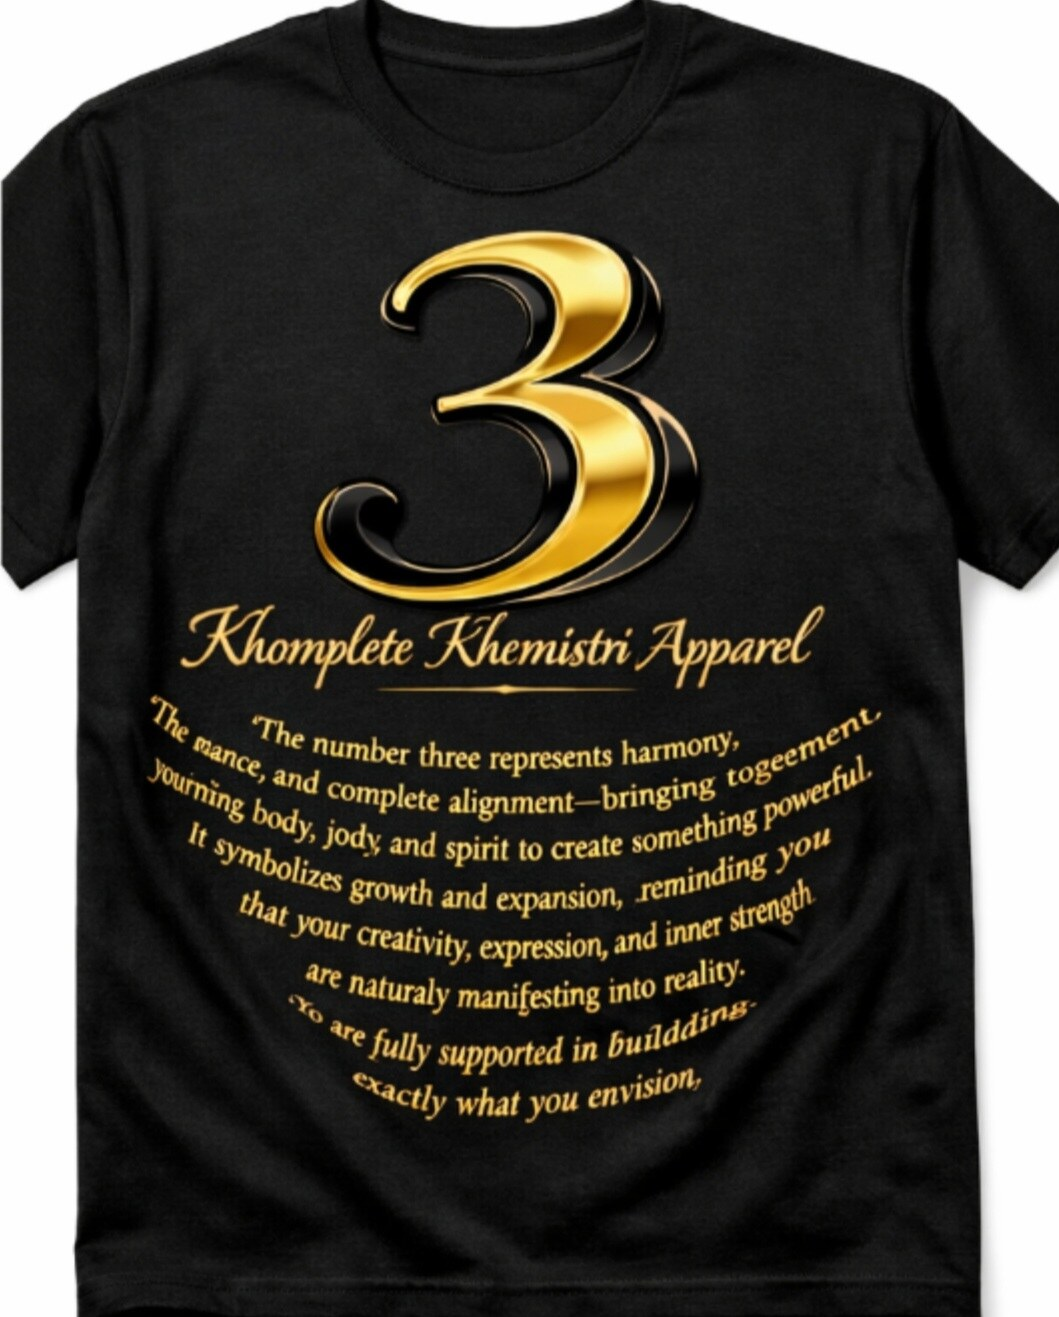
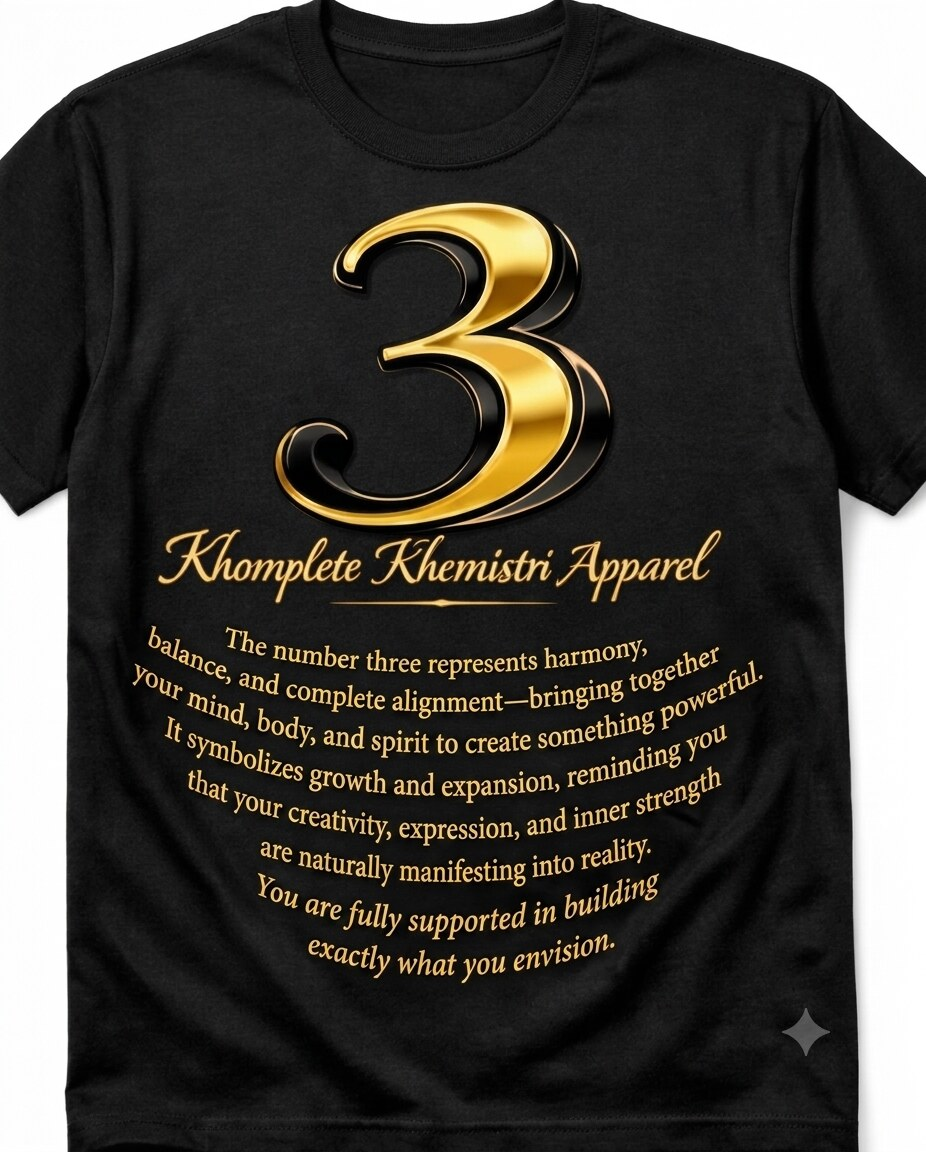
Fix Number Three tee artwork + add Silver colorway (Task #42)
Replace the Black and White "Number Three" meaning tee images with corrected-
text versions (prior artwork had garbled/typo text). Filenames unchanged
(kk_founders_tee_three_meaning_black.jpg / _white.jpg) so no catalog text edits
needed for those two.

Add a new "The Number Three Tee — Silver" product (white tee, polished silver
"3"): unisex, $30, category T-Shirts / productType apparel, customize none,
sortOrder 56, synthetic prod_kkftee3meaningsilver / price_kkftee3meaningsilver,
image kk_founders_tee_three_meaning_silver.jpg. Added to both the dev seed
(server/routes.ts) and the prod self-heal loop (server/ensureCatalogData.ts).

Images converted PNG->JPEG q88 under client/public/assets. Typecheck passes.
Mapping confirmed with user: black=...478388, white=...763337, silver=...495285.

diff --git a/server/ensureCatalogData.ts b/server/ensureCatalogData.ts
@@ -375,6 +375,14 @@ const WOMENS_TEE_PRODUCTS: {
       "White unisex tee with a gold-and-silver \u201c3\u201d above KHOMPLETE KHEMISTRI APPAREL. The number three represents harmony, balance, and complete alignment \u2014 bringing together your mind, body, and spirit to create something powerful. It symbolizes growth and expansion, reminding you that your creativity, expression, and inner strength are naturally manifesting into reality. You are fully supported in building exactly what you envision. Select your size at checkout.",
     meta: { category: "T-Shirts", productType: "apparel", sortOrder: "55", gender: "Unisex", customize: "none", imageUrl: "/assets/kk_founders_tee_three_meaning_white.jpg" },
   },
+  {
+    productId: "prod_kkftee3meaningsilver",
+    priceId: "price_kkftee3meaningsilver",
+    name: 'The Number Three Tee \u2014 Silver',
+    description:
+      "White unisex tee with a polished silver \u201c3\u201d above KHOMPLETE KHEMISTRI APPAREL. The number three represents harmony, balance, and complete alignment \u2014 bringing together your mind, body, and spirit to create something powerful. It symbolizes growth and expansion, reminding you that your creativity, expression, and inner strength are naturally manifesting into reality. You are fully supported in building exactly what you envision. Select your size at checkout.",
+    meta: { category: "T-Shirts", productType: "apparel", sortOrder: "56", gender: "Unisex", customize: "none", imageUrl: "/assets/kk_founders_tee_three_meaning_silver.jpg" },
+  },
 ];
 
 const BEDDING_PRICE_COMFORTER_CENTS = 9900;

diff --git a/server/routes.ts b/server/routes.ts
@@ -299,6 +299,12 @@ const ALL_PRODUCTS = [
     price: 3000,
     metadata: { category: 'T-Shirts', productType: 'apparel', sortOrder: '55', imageUrl: '/assets/kk_founders_tee_three_meaning_white.jpg', gender: 'Unisex', customize: 'none' }
   },
+  {
+    name: 'The Number Three Tee — Silver',
+    description: "White unisex tee with a polished silver “3” above KHOMPLETE KHEMISTRI APPAREL. The number three represents harmony, balance, and complete alignment — bringing together your mind, body, and spirit to create something powerful. It symbolizes growth and expansion, reminding you that your creativity, expression, and inner strength are naturally manifesting into reality. You are fully supported in building exactly what you envision. Select your size at checkout.",
+    price: 3000,
+    metadata: { category: 'T-Shirts', productType: 'apparel', sortOrder: '56', imageUrl: '/assets/kk_founders_tee_three_meaning_silver.jpg', gender: 'Unisex', customize: 'none' }
+  },
   // SLEEPWEAR & LOUNGEWEAR
   {
     name: "Personalized Custom Logo Slippers",